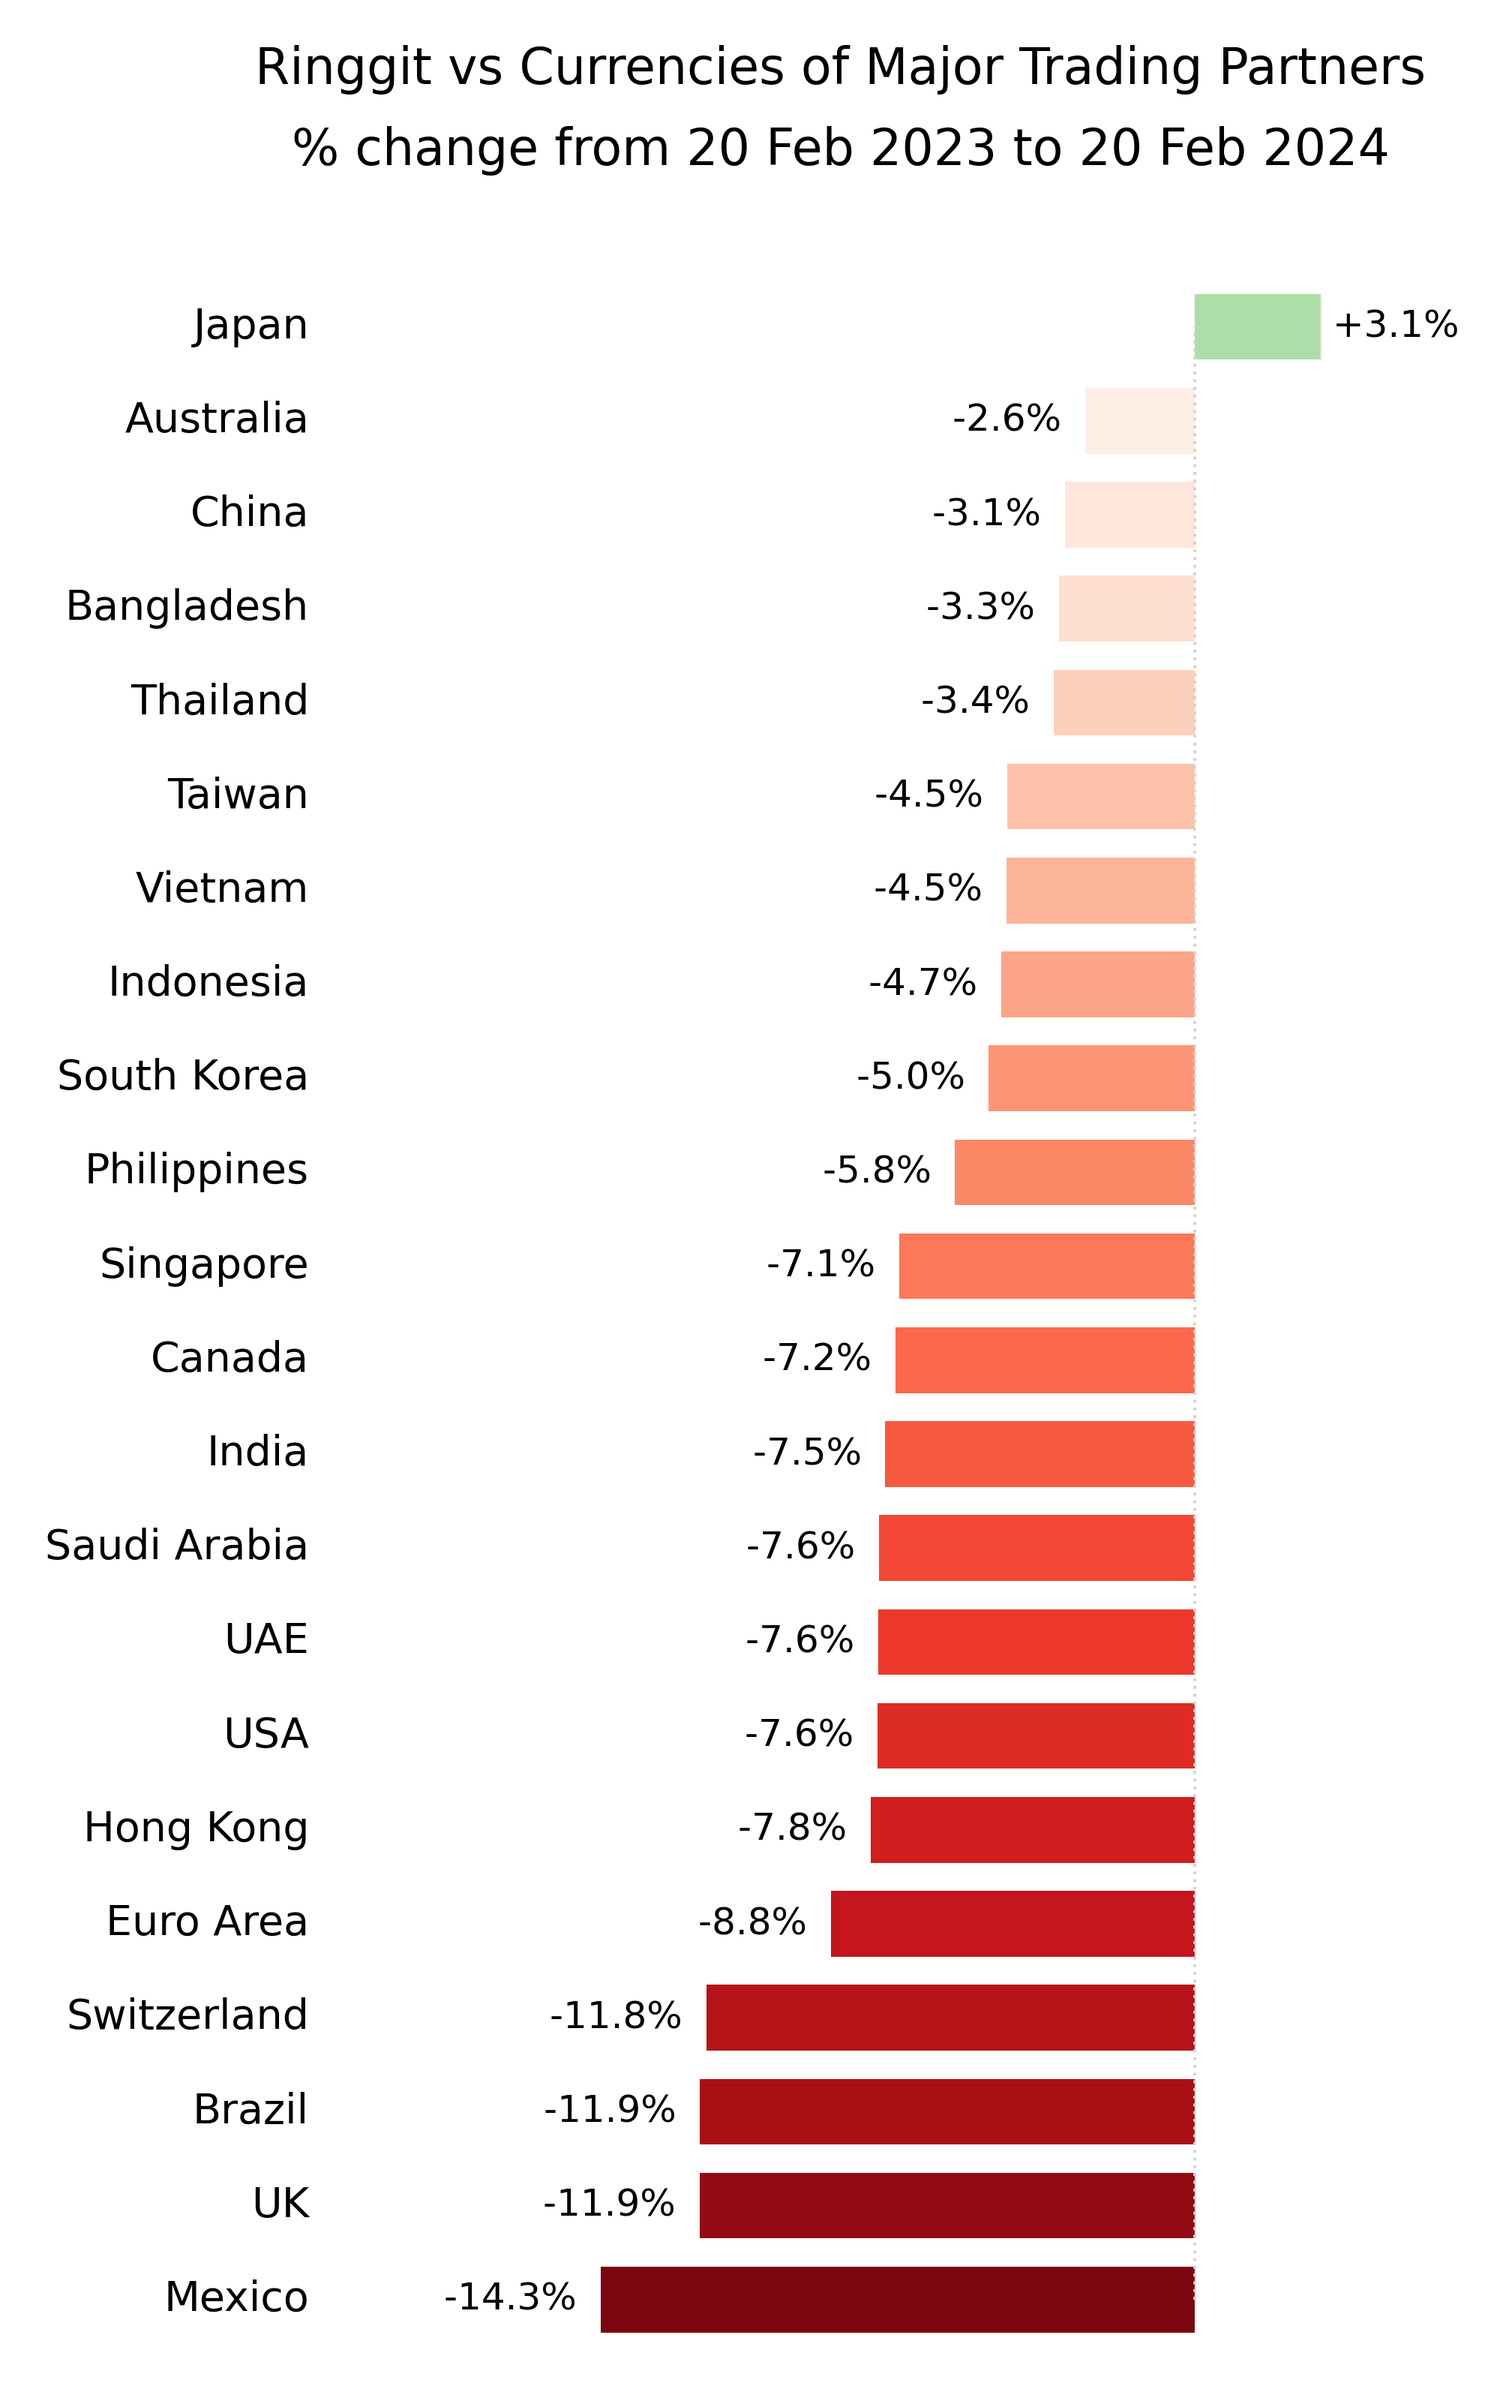
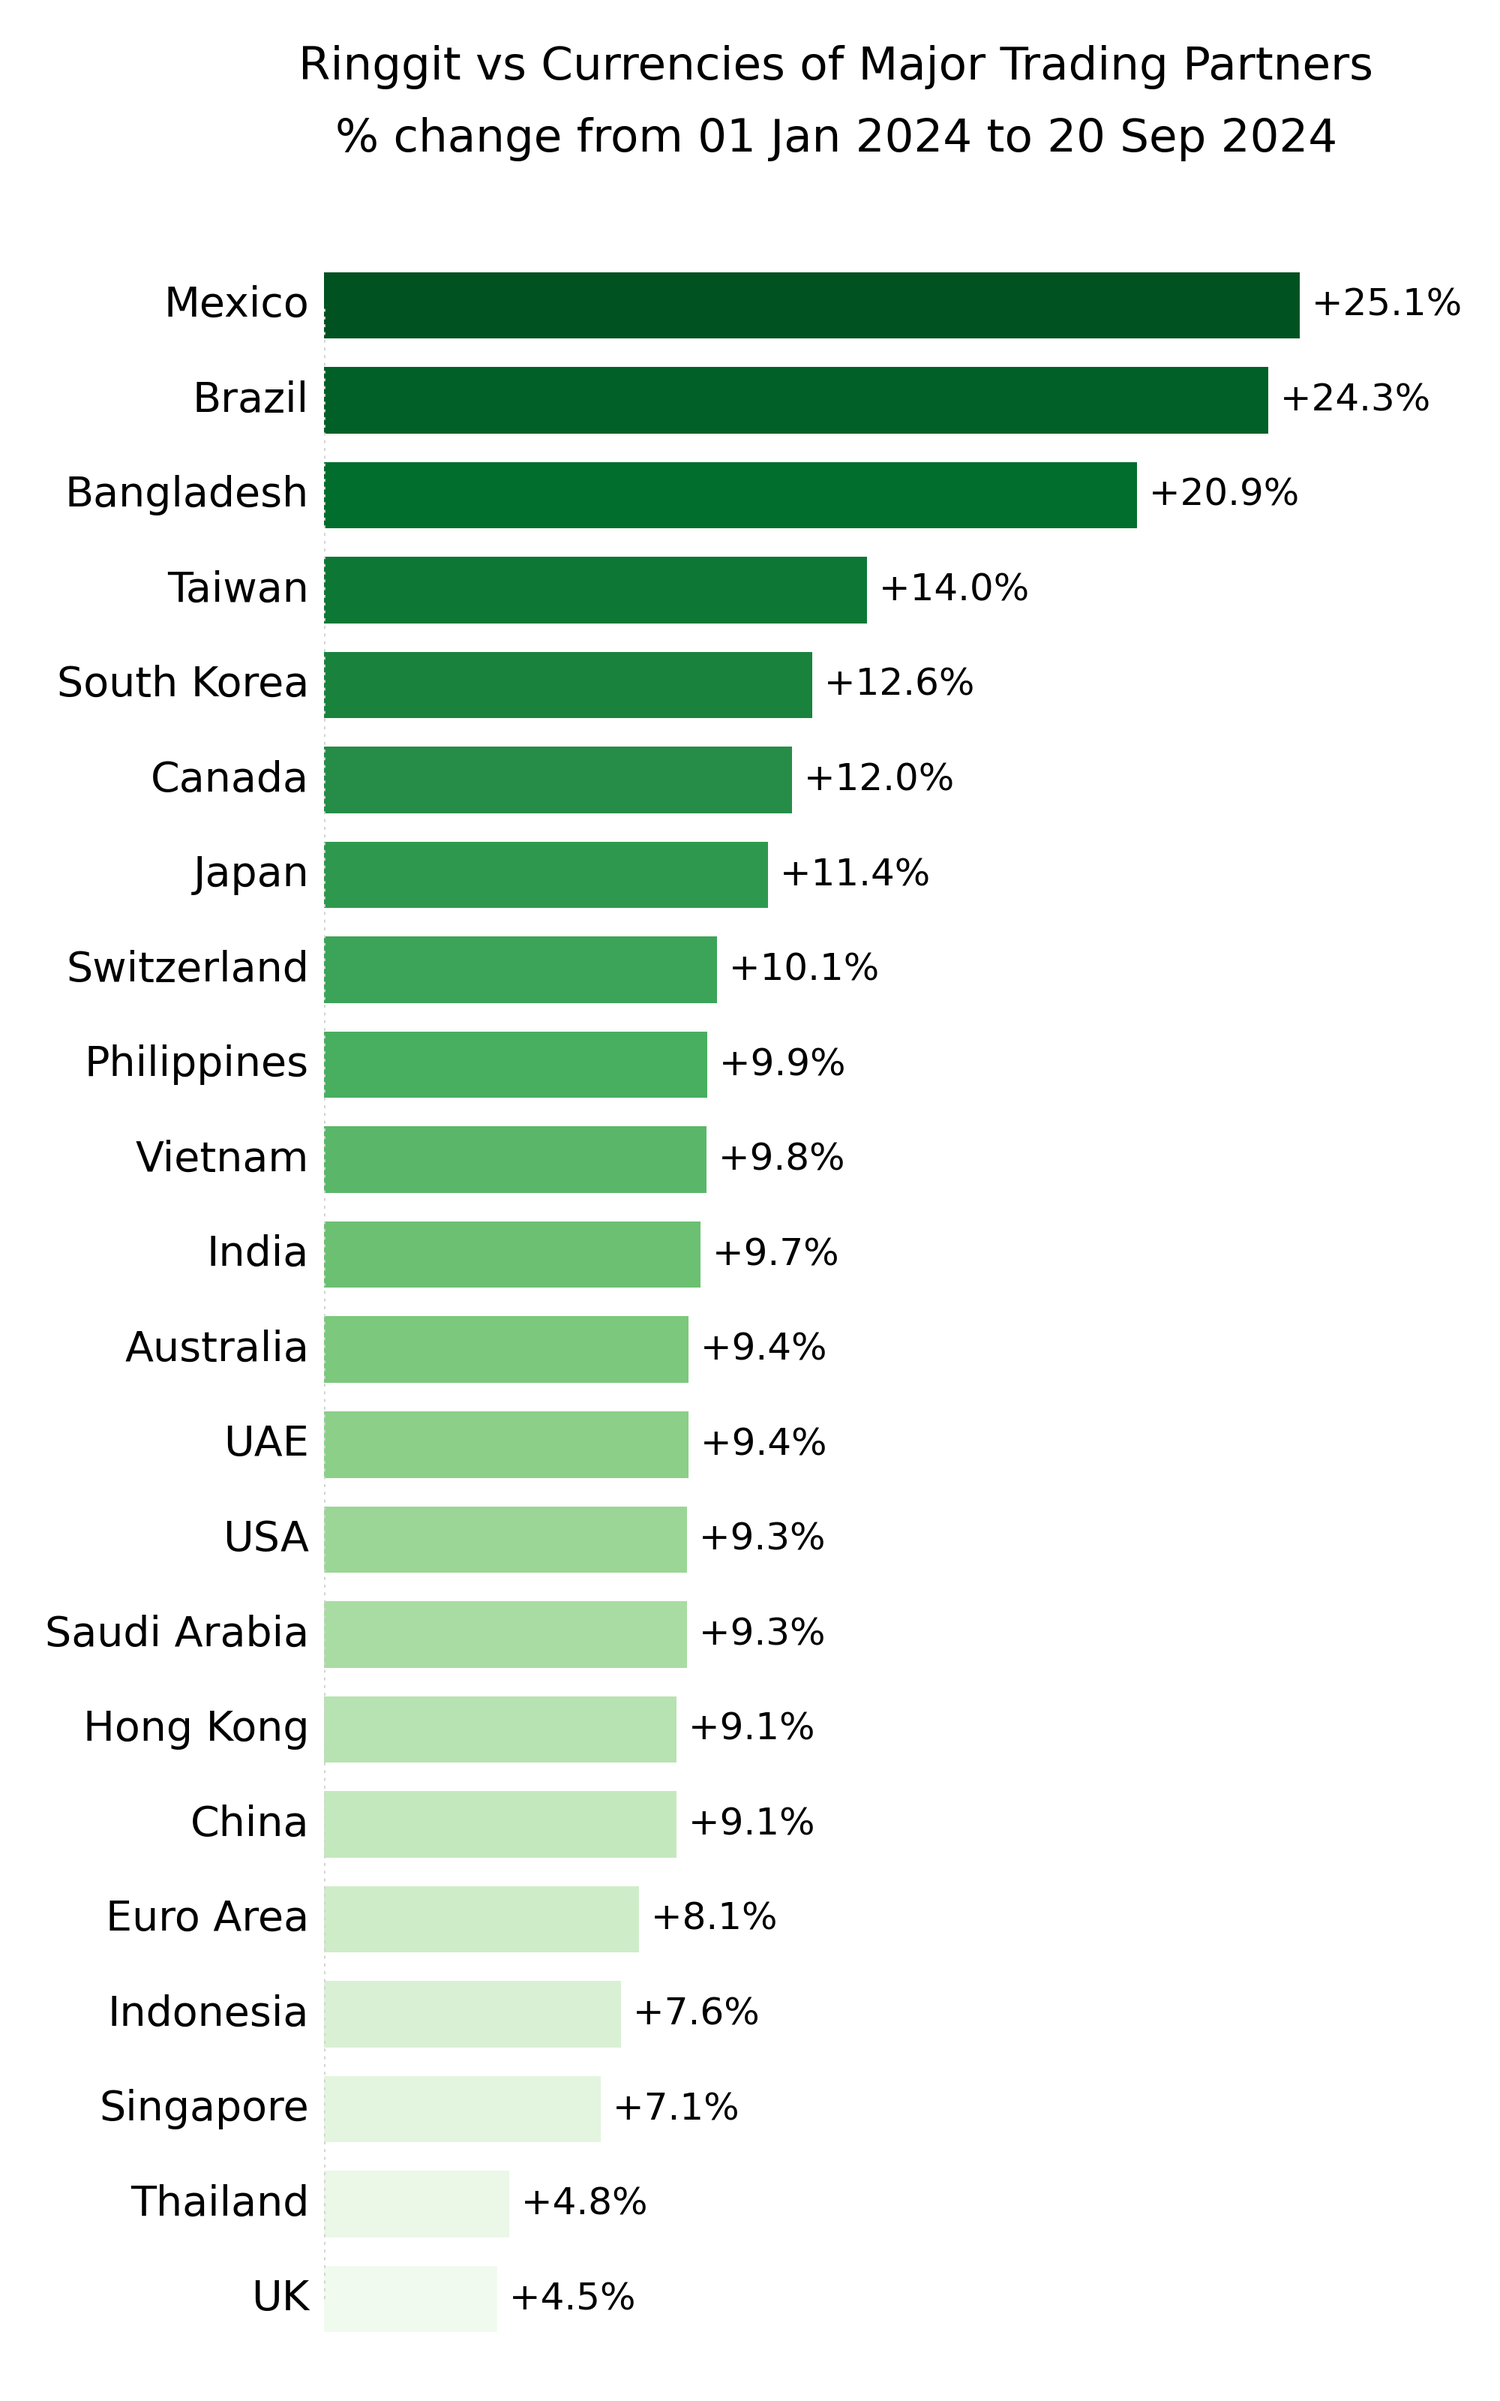
Update script

diff --git a/2024-02-16_er/script.py b/2024-02-16_er/script.py
@@ -41,6 +41,7 @@ def bar():
     df.date = df.date.dt.date
     DATE_E = df.date.iloc[-1]
     DATE_S = DATE_E - relativedelta(years=1)
+    DATE_S = date(2024, 1, 1)
     df = df[(df.date >= DATE_S) & (df.date <= DATE_E)].set_index('date')
 
     # create percentage changes relative to first date
@@ -61,7 +62,7 @@ def bar():
 
     n_pos = len(df[df.performance >= 0])
     n_neg = len(df[df.performance < 0])
-    col_pos = sb.color_palette('Greens',n_colors=n_pos*2).as_hex()
+    col_pos = sb.color_palette('Greens',n_colors=n_pos).as_hex()
     col_neg = sb.color_palette('Reds',n_colors=n_neg).as_hex()
     col_neg.reverse()
 
@@ -69,7 +70,7 @@ def bar():
     df.plot(kind='barh', width=0.7, y=v, edgecolor='black', lw=0, color=col_neg+col_pos, ax=ax)
 
     # plot-wide adjustments
-    ax.set_title(f"""Ringgit vs Currencies of Major Trading Partners\n% change from {DATE_S:%d %b %Y} to {DATE_E:%d %b %Y}\n""",linespacing=1.8)
+    ax.set_title(f"""Ringgit vs Currencies of Major Trading Partners\n% change from {DATE_S:%d %b %Y} to {DATE_E:%d %b %Y}\n""",linespacing=1.8,fontsize=11)
     for b in ['top','right','bottom','left']: ax.spines[b].set_visible(False)
     ax.spines['left'].set_color('grey')
     ax.get_legend().remove()
@@ -83,7 +84,7 @@ def bar():
 
     # x-axis adjustments
     ax.set_xlabel('')
-    ax.set_xlim(-21)
+    # ax.set_xlim(-21)
     ax.xaxis.grid(False)
     ax.get_xaxis().set_visible(False)
     for c in ax.containers:
